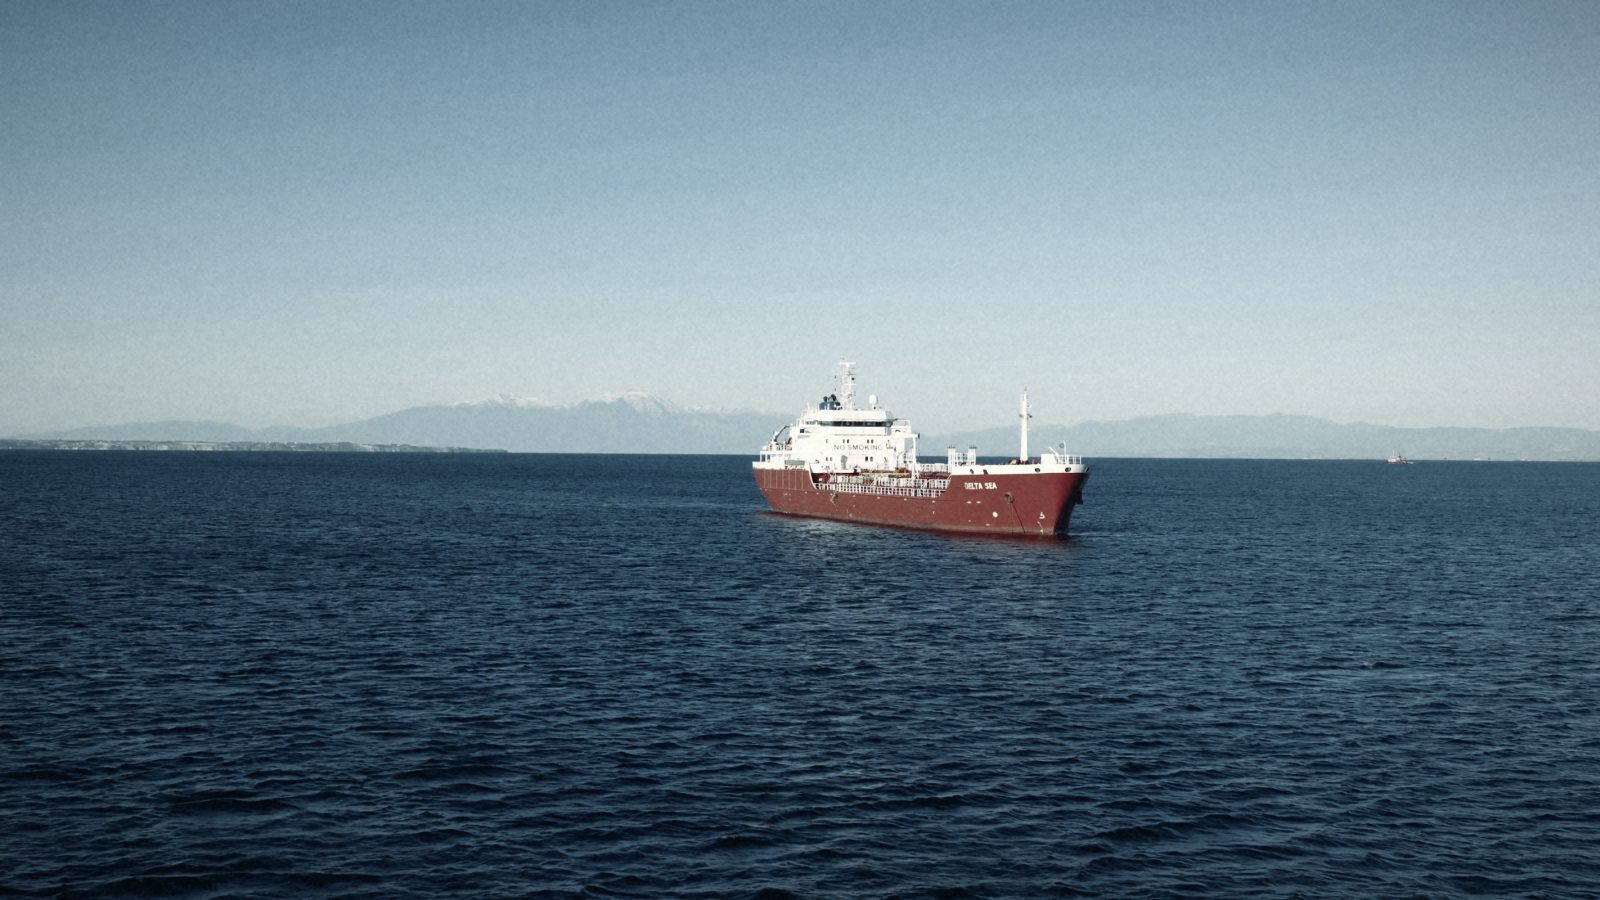
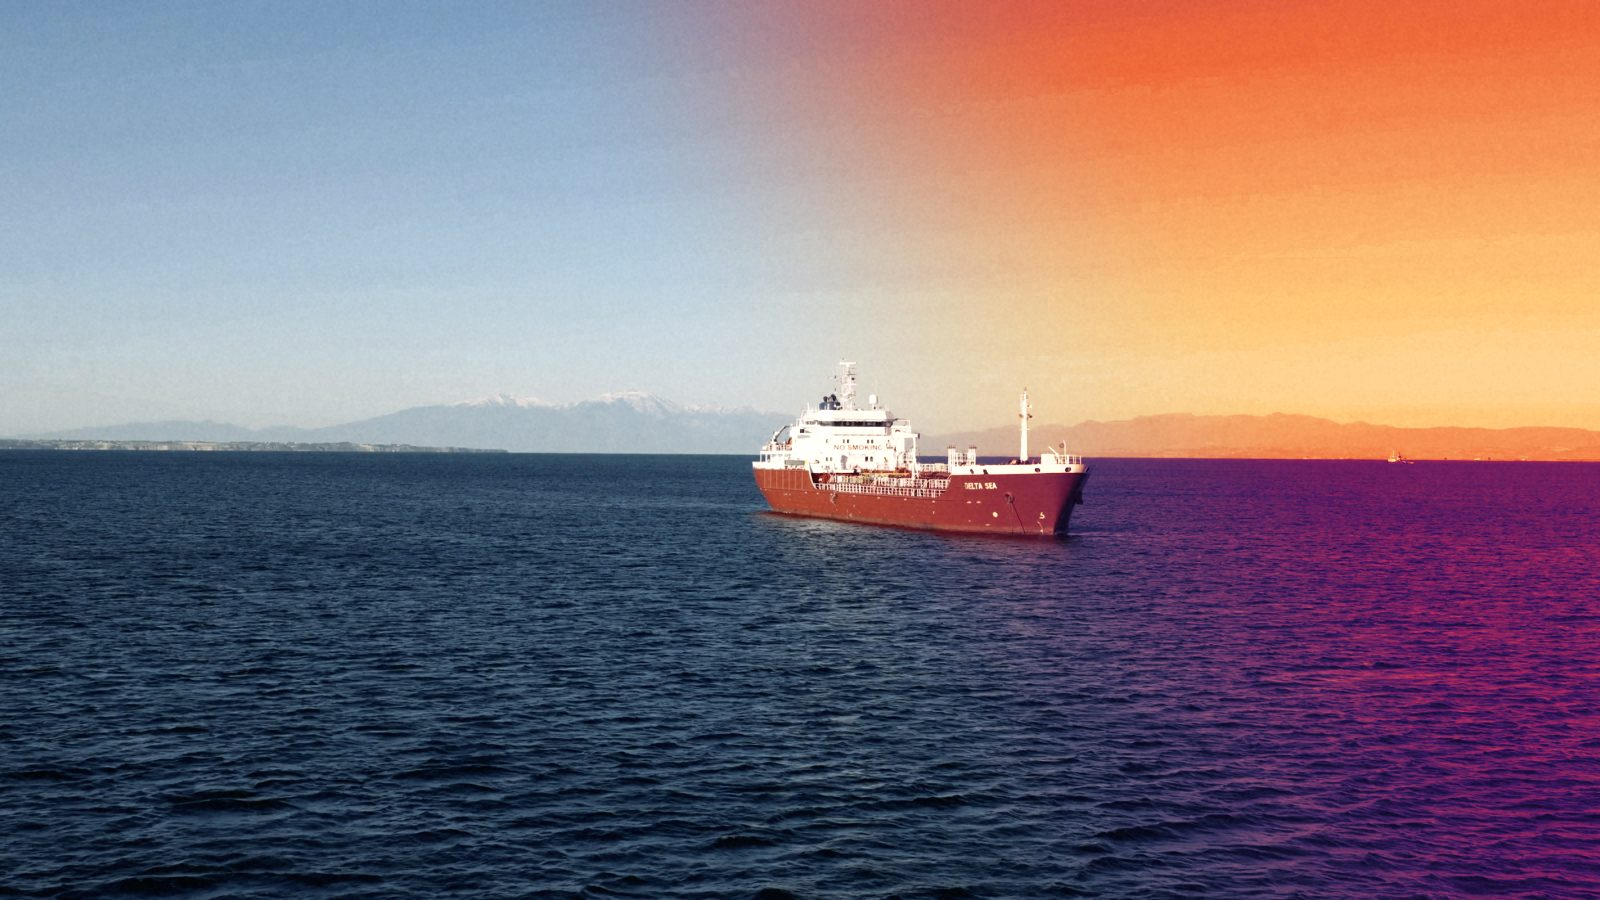
Static color glitch on Home cards, feature and stepped layouts, captions
- Home cards: no more hover glitch. Each card image now has its own
  static false-color treatment baked in (thermal, violet and mint,
  sunset, teal and copper, color-split bands, shifted slices), so they
  stop looking like one flat blue grade. The moving-glitch CSS is gone.
- Section 02: feature layout. Turtle is a big square card on the left;
  eDNA and Live stack on the right (Card takes a new `feature` prop).
- Section 03: stepped row, each card a step lower than the last.
- Page headers: a hairline under the title with a hatched stripe and a
  bracketed caption, e.g. [ 50-300 M · THE TWILIGHT ZONE ]; stacked on
  phones. Captions are the new `caption` prop on PageHeader.
- README updated.

Claude-Session: https://claude.ai/code/session_01HPvjW6KZMfatoVEK835rkc

diff --git a/src/styles/global.css b/src/styles/global.css
@@ -17,8 +17,6 @@
   --color-accent-ink: #06121f;  /* Text that sits on top of the accent color */
   --color-line: #1c3a52;        /* Dividers and borders */
   --color-white: #ffffff;       /* Pure white: the inverted wordmark over the Home video */
-  --glitch-red: #ff0000;        /* Color glitch: the red copy of the photo */
-  --glitch-cyan: #00ffff;       /* Color glitch: the cyan copy of the photo */
 
   /* Fonts (loaded from Google Fonts in BaseLayout.astro) */
   --font-display: "Archivo", "Arial Narrow", system-ui, sans-serif;
@@ -267,89 +265,6 @@ h3 {
     transform: none;
     transition: none;
   }
-}
-
-/* ---------- Color glitch (moving, on hover) ----------
-   The page-header photos have a permanent false-color glitch baked into the image files,
-   like Colossal's. This is the moving version, used on Home cards when you hover: a
-   split-second "bad signal" where red and cyan copies slide apart in slices, with two
-   false-color frames. Card.astro plays the keyframes with steps(1, end), so they snap
-   like dropped video frames.
-
-   Usage: wrap an image, and give the wrapper the same file as a CSS variable:
-     <div class="color-glitch" style="--glitch-src: url(/talosaur-site/images/x.jpg)">
-       <img src="/talosaur-site/images/x.jpg" alt="..." />
-     </div>
-   How it works: ::before and ::after are two invisible copies of the photo, tinted pure
-   red and pure cyan (background-blend-mode: luminosity keeps the photo's light and dark
-   but takes the color of the background-color underneath). During the glitch they shift
-   sideways and are added onto the photo with mix-blend-mode: screen, which makes the
-   colored fringes. (Our photos are nearly all blue, so tinting works better than
-   splitting the real red channel, which is almost empty.) The real <img> gets one
-   inverted frame and one violet frame (the false-color flash).
-   Cards play it on hover (Card.astro). People who ask for less motion never see it
-   (rule above). */
-.color-glitch {
-  position: relative;
-  width: 100%;
-  height: 100%;
-  isolation: isolate; /* the blending only mixes with this photo, nothing behind it */
-}
-
-.color-glitch img {
-  display: block;
-  width: 100%;
-  height: 100%;
-  object-fit: cover;
-  object-position: var(--glitch-pos, 50% 50%);
-}
-
-.color-glitch::before,
-.color-glitch::after {
-  content: '';
-  position: absolute;
-  inset: 0;
-  z-index: 1;
-  background-image: var(--glitch-src);
-  background-size: cover;
-  background-position: var(--glitch-pos, 50% 50%);
-  background-blend-mode: luminosity;
-  mix-blend-mode: screen;
-  opacity: 0;
-  pointer-events: none;
-}
-
-.color-glitch::before {
-  background-color: var(--glitch-red);
-}
-
-.color-glitch::after {
-  background-color: var(--glitch-cyan);
-}
-
-/* Red slides one way, cyan the other; clip-path shows only a horizontal band at a time */
-@keyframes glitch-red {
-  0% { opacity: 0.7; transform: translateX(-2.4%); clip-path: inset(10% 0 60% 0); }
-  14% { opacity: 0.7; transform: translateX(1.8%); clip-path: inset(48% 0 20% 0); }
-  28% { opacity: 0.45; transform: translateX(-0.9%); clip-path: inset(0); }
-  42% { opacity: 0.7; transform: translateX(3.2%); clip-path: inset(72% 0 6% 0); }
-  56%, 100% { opacity: 0; transform: none; clip-path: inset(0); }
-}
-
-@keyframes glitch-cyan {
-  0% { opacity: 0.7; transform: translateX(2.4%); clip-path: inset(10% 0 60% 0); }
-  14% { opacity: 0.7; transform: translateX(-1.8%); clip-path: inset(48% 0 20% 0); }
-  28% { opacity: 0.45; transform: translateX(0.9%); clip-path: inset(0); }
-  42% { opacity: 0.7; transform: translateX(-3.2%); clip-path: inset(72% 0 6% 0); }
-  56%, 100% { opacity: 0; transform: none; clip-path: inset(0); }
-}
-
-/* The false-color flash on the photo itself: copper (inverted, like the Home logo), then violet */
-@keyframes false-color {
-  0%, 18% { filter: none; }
-  20% { filter: invert(1) saturate(1.6); }
-  30% { filter: hue-rotate(100deg) saturate(4) contrast(1.3); }
-  38%, 100% { filter: none; }
 }
 
 /* Hidden visually but still read by screen readers */

diff --git a/README.md b/README.md
@@ -69,25 +69,27 @@ Open `src/data/positions.ts`. Each role is one `{ ... }` block with a title, "Wh
 
 All photos live in `public/images/`. To swap one, overwrite the file and keep the same name. Save JPGs about 1600 px wide and under 300 KB.
 
-**Home page cards.** Every card shows a photo; the filename is the `photo` line in `src/data/home.ts`. Section 02 photos are 4:3 (for example 1600 × 1200), Sections 03 and 06 are 16:9 (1600 × 900). If a file is missing, the card shows a plain dark panel of the same shape so the row still lines up.
+**Home page cards.** Every card shows a photo; the filename is the `photo` line in `src/data/home.ts`. Section 02 is a feature layout: the first card (Turtle) is big and square (1200 × 1200), and the other two stack beside it at 16:9 (1600 × 900). Section 03 is a stepped row (each card a little lower than the last) and Section 06 a plain row, both 16:9 (1600 × 900). The layouts are the `card-grid--feature` and `card-grid--stepped` rules in `src/pages/index.astro`. If a file is missing, the card shows a plain dark panel of the same shape.
 
 | File | Card | What is in it now |
 |---|---|---|
-| `home-turtle.jpg` | Turtle | The 1775 Turtle illustration |
-| `home-edna.jpg` | Deep eDNA possibilities | DNA helix (still from the hero video) |
-| `home-live.jpg` | Talosaur Live | Milling machine as a "LIVE" camera feed (links to Twitch) |
-| `home-team.jpg` | Who we are | Talosaur logo cut out of a school of fish |
-| `home-positions.jpg` | Open positions | Hands at work in a lab (still from the hero video) |
-| `home-build-log.jpg` | Our build log | The test ladder, Bench to Offshore, with "Now: Bench" |
-| `home-twilight-zone.jpg` | The twilight zone | Sea nettle jellyfish, half photo and half dots |
-| `home-meet-the-team.jpg` | Meet the team | Crew and rover on a research ship deck (NOAA) |
-| `home-get-in-touch.jpg` | Get in touch | A ship offshore |
+| `home-turtle.jpg` | Turtle | The 1775 Turtle illustration in violet dots on mint, with orange slices |
+| `home-edna.jpg` | Deep eDNA possibilities | DNA helix in thermal orange on violet |
+| `home-live.jpg` | Talosaur Live | Milling machine as a "LIVE" camera feed, half violet (links to Twitch) |
+| `home-team.jpg` | Who we are | Talosaur logo cut out of a school of fish, blue to thermal |
+| `home-positions.jpg` | Open positions | Pipette and well plate in violet and mint |
+| `home-build-log.jpg` | Our build log | The test ladder, Bench to Offshore, with "Now: Bench", in teal and copper |
+| `home-twilight-zone.jpg` | The twilight zone | Sea nettle jellyfish glowing orange, dissolving into cyan dots |
+| `home-meet-the-team.jpg` | Meet the team | Crew and rover on a research ship deck (NOAA), half sunset colors |
+| `home-get-in-touch.jpg` | Get in touch | A ship offshore under an orange sky |
 
 Swap any of these for real team photos whenever you have them. The build log image shows "Now: Bench"; when testing moves to the next step, ask for it to be regenerated (or swap in a photo from that test).
 
 **Page headers.** Every page in the top menu opens with a full-width photo band. The photos live in `public/images/pages/` and are named after the page: `who-we-are.jpg`, `the-problem.jpg`, `news.jpg`, `work-with-us.jpg`, `positions.jpg`, `donate.jpg`. Each is 2400 × 1350 and edited in the same style as the Home video (dots, smears, scan lines). The title sits over the bottom-left of the photo, so keep that area calm and darkish. To change which part of a photo stays visible on phones, edit `imagePosition` where the page uses `<PageHeader>` (for example `imagePosition="60% 50%"` keeps a bit right of center). Delete a page's photo and that page goes back to a plain title.
 
-**Color glitch.** Like Colossal's, the page-header photos are permanently false-colored: a gradient map swaps the photo's light and dark for bold colors (violet and mint, sunset orange and magenta, copper), in zones that fade into the natural photo, with halftone dots and shifted slices. That's baked into the image files, so a replacement photo needs the same treatment (ask for it, or edit it in any photo app with a gradient map). Home cards also do a split-second moving glitch on hover (red and cyan copies sliding apart, with one copper and one violet frame). That part is CSS: the "Color glitch" section of `src/styles/global.css`, played by the three `.card:hover .color-glitch` rules in `src/components/Card.astro` (delete those to turn it off). Visitors who turn on "reduce motion" don't see it.
+**Color glitch.** Like Colossal's, the page-header photos and the Home card photos are permanently false-colored: a gradient map swaps the photo's light and dark for bold colors (violet and mint, sunset orange and magenta, thermal, copper, teal), in zones that fade into the natural photo, with halftone dots, shifted slices and color-split bands. It's baked into the image files (nothing moves), so a replacement photo needs the same treatment: ask for it, or use a gradient map in any photo app.
+
+**Page-header captions.** Each page header has a thin line under the title with a hatched `//////` stripe and a short caption in [ brackets ], for example `[ 50–300 M · THE TWILIGHT ZONE ]`. Change or remove it with the `caption` text where the page uses `<PageHeader>`.
 
 **Team members:** the `photo` name in `src/data/team.ts`, saved in `public/images/team/` (portrait, about 800 × 1000 px). Until the file exists the card shows a panel with the person's initials.
 
